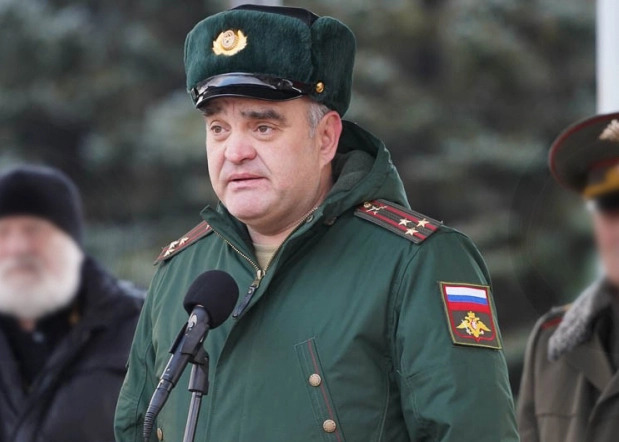
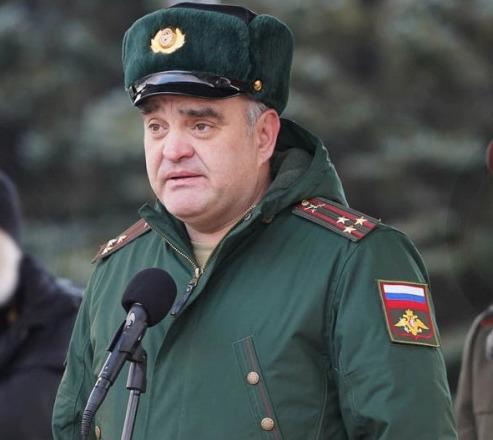
add images and format them

diff --git a/Dead Russian Generals/dead-russian-generals/src/App.css b/Dead Russian Generals/dead-russian-generals/src/App.css
@@ -1,6 +1,9 @@
+@import url(https://fonts.googleapis.com/css?family=Kanit:100,100italic,200,200italic,300,300italic,regular,italic,500,500italic,600,600italic,700,700italic,800,800italic,900,900italic);
+
 body {
   background-image: url(./Images/destruction.jpeg);
   background-size: 100%;
+  font-family: "Kanit";
 }
 
 .wrapper {
@@ -45,12 +48,13 @@ body {
 
 .toggle:hover {
   margin-left: 20px;
-  background-color: rgb(198, 3, 3);
+  background-color: rgb(192, 23, 43);
   border: none;
   padding: 4px;
   border-radius: 30px;
   transition: all 0.5s;
   font-size: 20px;
+  cursor: pointer;
 }
 
 .title-box {
@@ -87,6 +91,25 @@ body {
   cursor: pointer;
 }
 
-/* .beheaded {
-  width: 10%;
-} */
+.list-button {
+  background-color: rgb(192, 23, 43);
+  color: white;
+  font-family: "Kanit";
+  padding: 3px 5px;
+  border: 2px solid rgb(192, 23, 43);
+  border-radius: 3px;
+  font-size: 16px;
+  margin-bottom: 20px;
+}
+
+.list-button:hover {
+  transform: scale(110%);
+  transition: all 0.5s;
+  cursor: pointer;
+}
+
+img {
+  max-width: 150px;
+  min-height: 200px;
+  object-fit: cover;
+}

diff --git a/Dead Russian Generals/dead-russian-generals/src/App.js b/Dead Russian Generals/dead-russian-generals/src/App.js
@@ -5,7 +5,6 @@ import Intro from "./Intro";
 import SmoothCollapse from "react-smooth-collapse";
 import { FontAwesomeIcon } from "@fortawesome/react-fontawesome";
 import { faChevronUp } from "@fortawesome/free-solid-svg-icons";
-// import BeheadedGeneralsImage from "./Images/Beheaded.png";
 
 function App() {
   const [toggle, setToggle] = useState(false);
@@ -22,7 +21,6 @@ function App() {
               </button>
             ) : null}
           </div>
-          {/* <img className="beheaded" src={BeheadedGeneralsImage} alt="beheaded" /> */}
 
           <SmoothCollapse expanded={!toggle}>
             <Intro toggle={toggle} setToggle={setToggle} />
@@ -30,7 +28,6 @@ function App() {
           <SmoothCollapse expanded={toggle}>
             <Generals />
           </SmoothCollapse>
-          {/* {toggle ? <Generals /> : null} */}
         </div>
       </div>
     </div>

diff --git a/Dead Russian Generals/dead-russian-generals/src/GeneralsItem.js b/Dead Russian Generals/dead-russian-generals/src/GeneralsItem.js
@@ -5,7 +5,7 @@ function GeneralsItem({ item }) {
     <Element key={item.name} name={item.id}>
       <p>{item.name}</p>
       <p>{item.text}</p>
-      <img alt={item.name} src={`./Images/${item.id}.jpeg`}></img>
+      <img alt={item.name} src={require(`./Images/${item.id}.jpeg`)}></img>
     </Element>
   );
 }
